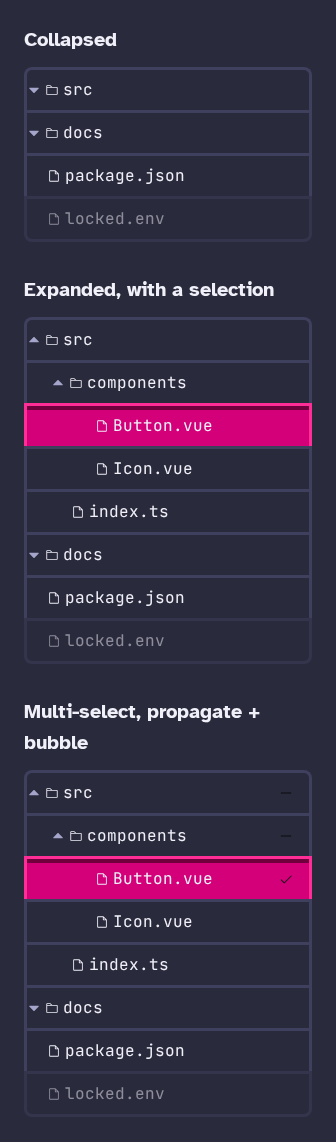
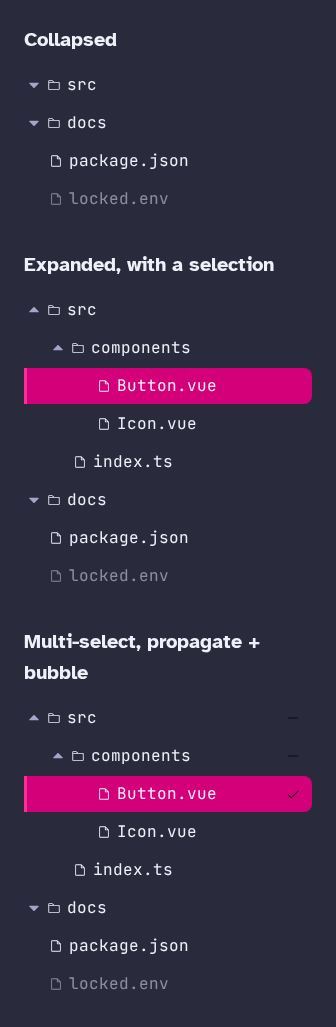
style(ui): switch AtTree row chrome to accent-rail treatment
Vertical-gang boxed rows (borrowed from AtListboxItem) read as a listbox
rather than a tree. Picked accent-rail after prototyping 3 alternatives:
borderless rows, hover tint, and a left accent bar for selection instead
of a full box/shadow.

diff --git a/packages/ui/src/components/Tree/AtTreeItem.vue b/packages/ui/src/components/Tree/AtTreeItem.vue
@@ -29,17 +29,19 @@ function guardDisabled(event: Event) {
 
 const indent = computed(() => `calc(var(--spacing-6) * ${String(props.level - 1)})`)
 
-// Same vertical-gang treatment as AtListboxItem: flush zero-gap stack,
-// border-as-seam, first/last corners rounded. Tree has no `data-highlighted`
-// attribute (that's a Listbox/Menu concept) -- roving focus lands real DOM
-// focus on the active row, so focus-visible is the highlight equivalent here.
-// `data-selected` is set by reka-ui's TreeItem itself.
+// Accent-rail treatment (won a 3-way aesthetic prototype against a
+// vertical-gang boxed-row style borrowed from AtListboxItem, which read as a
+// listbox rather than a tree). No row border/shadow at all -- hierarchy reads
+// via indentation, selection via a left accent bar instead of a full box.
+// Tree has no `data-highlighted` attribute (that's a Listbox/Menu concept) --
+// roving focus lands real DOM focus on the active row, so focus-visible is
+// the highlight equivalent here. `data-selected` is set by reka-ui's
+// TreeItem itself.
 const row =
-  'flex cursor-pointer items-center gap-1 px-4 py-2 font-body text-base text-fg-default outline-none ' +
-  'border-[3px] border-solid border-border-default bg-surface-default shadow-flat border-b-0 ' +
-  'first:rounded-t-md last:rounded-b-md last:border-b-[3px] ' +
+  'flex cursor-pointer items-center gap-1.5 rounded-r-md border-l-[3px] border-transparent py-1.5 pr-3 ' +
+  'font-body text-base text-fg-default outline-none hover:bg-surface-subtle ' +
   'focus-visible:outline-2 focus-visible:outline-offset-2 focus-visible:outline-border-focus ' +
-  'data-[selected]:border-primary-border-default data-[selected]:bg-primary-surface-recess data-[selected]:shadow-primary-low ' +
+  'data-[selected]:border-primary-default data-[selected]:bg-primary-surface-recess ' +
   'data-[disabled]:cursor-not-allowed data-[disabled]:opacity-50'
 </script>
 

diff --git a/packages/ui/src/components/Tree/AtTree.vue b/packages/ui/src/components/Tree/AtTree.vue
@@ -84,7 +84,7 @@ const { getKey, getChildren, selectedItem, toModelValue } = useTreeSelection(
     :bubble-select="bubbleSelect"
     :expanded="expanded"
     :default-expanded="defaultExpanded"
-    class="flex flex-col"
+    class="flex flex-col gap-0.5"
     @update:model-value="(value) => emit('update:modelValue', toModelValue(value))"
     @update:expanded="(value) => emit('update:expanded', value)"
   >
